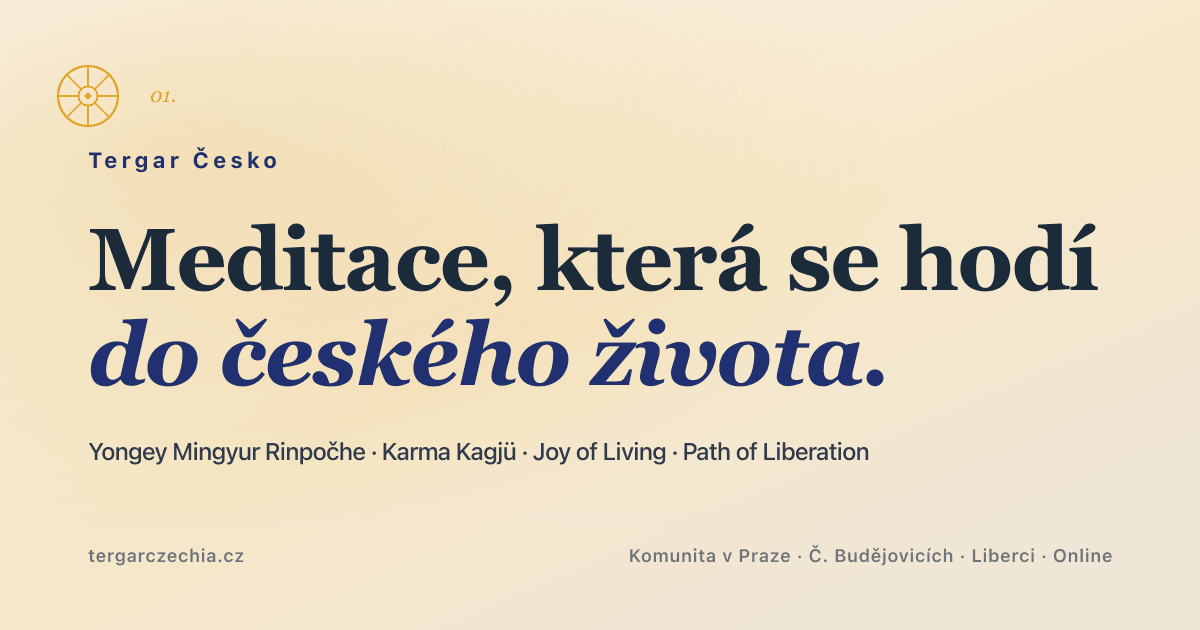
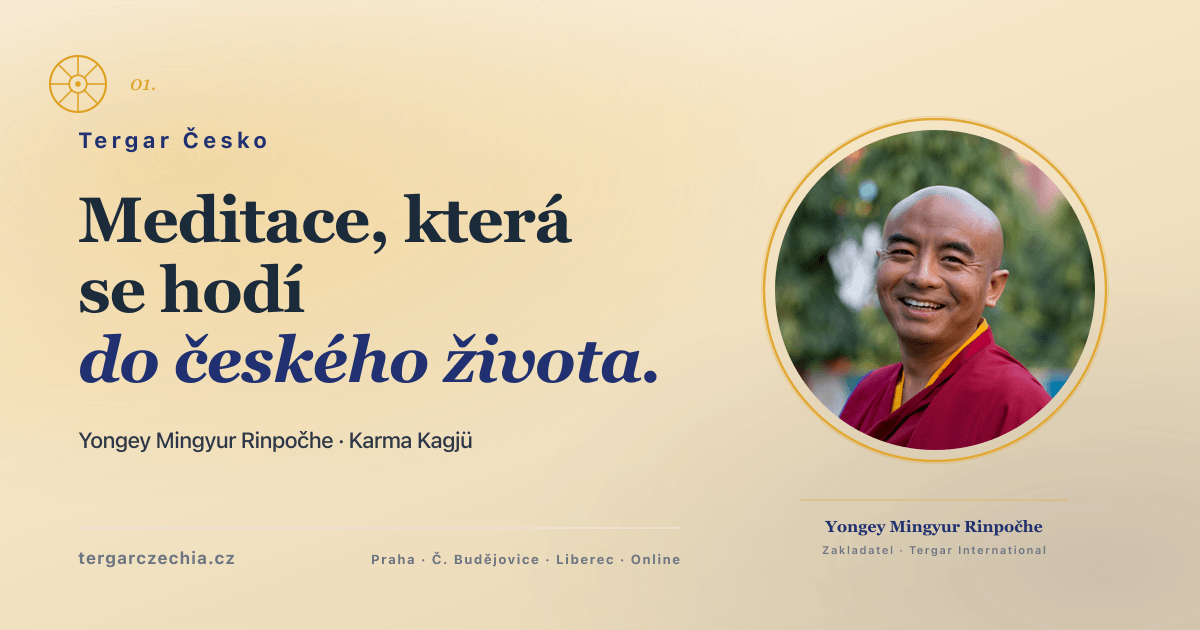
og+polish: rebuild OG with Mingyur portrait + kill page-head blank space
OG image (public/og-default.png, scripts/build-og.mjs):
- New build pipeline via sharp compositing — real Mingyur portrait
  as circular gold-ringed frame (348px) on the right third of the
  1200×630 canvas
- Headline restructured: 2 lines roman ("Meditace, která / se hodí")
  + 1 line italic navy accent ("do českého života.") at 64px — fits
  alongside portrait without collision
- Teacher credit strip under portrait: gold hairline + "Yongey Mingyur
  Rinpočhe" in Playfair + "Zakladatel · Tergar International" in caps
- URL + cities row aligned across bottom
- Dharma wheel + folio "01." top-left unchanged (signature ornament)

Page-head blank space fix (global.css):
- Before: pages like /meditace had .page-head inside a <Section>,
  followed by another <Section> with its own content. The page-head's
  margin-bottom stacked with Section's padding-bottom + next Section's
  padding-top → ~10rem dead vertical space
- After: .page-head:last-child { margin-bottom: 0 } — when the header
  is the only child in its Section container, Section padding alone
  handles rhythm. When page-head has siblings (e.g. cards in same
  Container), margin-bottom applies as before.
- Same rule applied to legacy :where(.head):last-child

diff --git a/src/styles/global.css b/src/styles/global.css
@@ -251,6 +251,9 @@ p + p { margin-top: 1rem; }
   max-width: var(--head-mw);
   margin-bottom: var(--head-mb);
 }
+/* When page-head is the only thing in its Section container, the Section's
+   own padding handles spacing — remove margin-bottom to avoid triple gap. */
+.page-head:last-child { margin-bottom: 0; }
 .page-head.is-wide { max-width: var(--head-mw-wide); }
 .page-head > .eyebrow { margin-bottom: var(--head-h1-mt); }
 .page-head > h1 {
@@ -306,6 +309,7 @@ p + p { margin-top: 1rem; }
   text-wrap: pretty;
 }
 :where(.head) > .lead:last-child { margin-bottom: 0; }
+:where(.head):last-child { margin-bottom: 0; }
 
 /* In-page section headers (eyebrow + h2 + lead) — used everywhere with
    different class names (seg-header, path-head, ig-head, etc.). Unify rhythm. */
